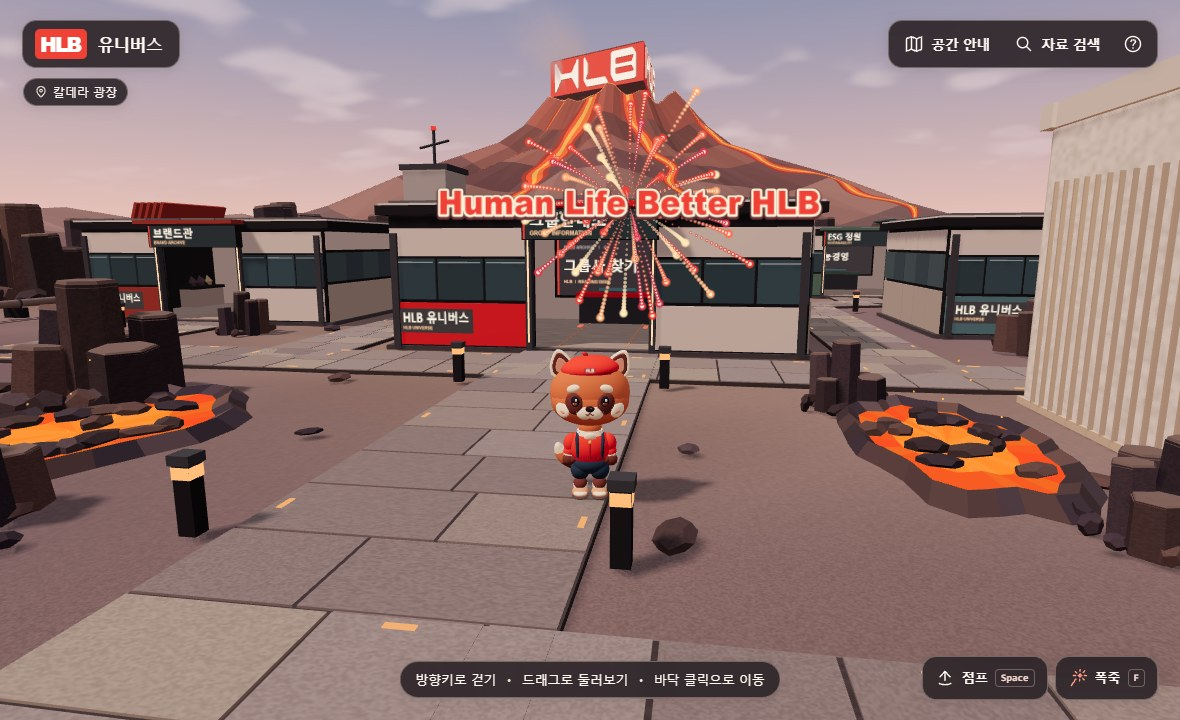
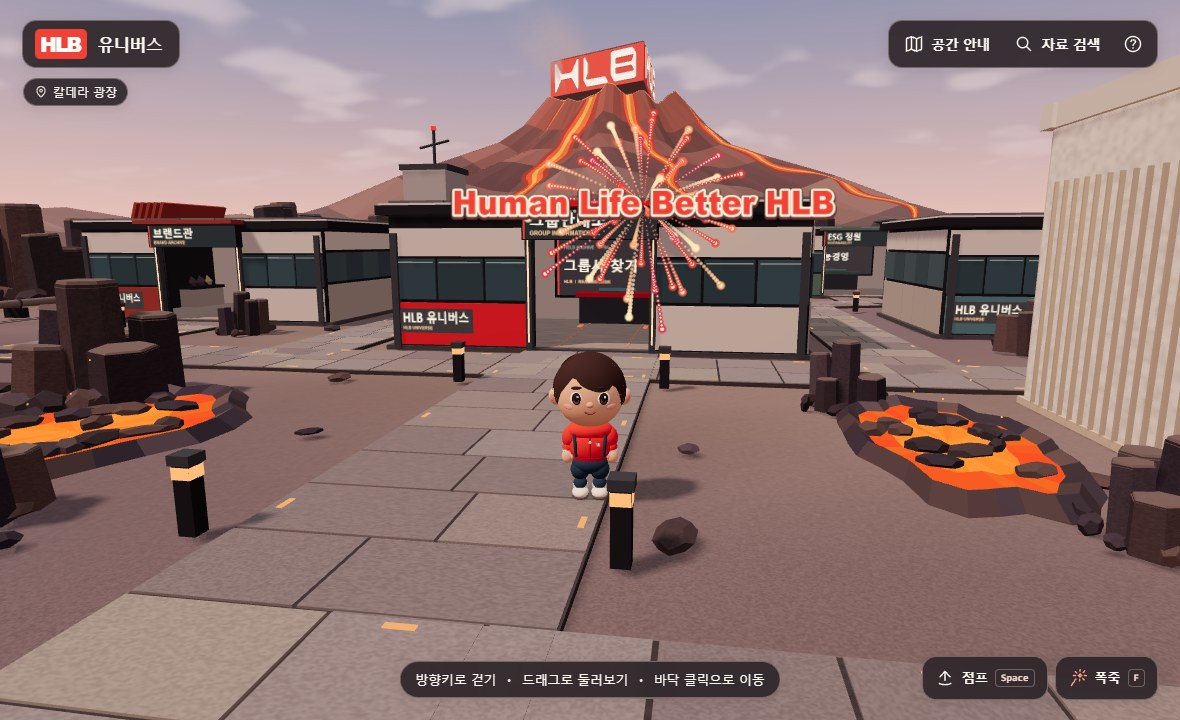
Replace the red panda with a neckless two-head human visitor

Changed region(s): [[0.3661, 0.1222, 0.7322, 0.4583], [0.4576, 0.4889, 0.5492, 0.7028], [0.5797, 0.1222, 0.6102, 0.1528]]

diff --git a/src/player3d.js b/src/player3d.js
@@ -7,7 +7,7 @@
   const distance = (a, b) => Math.hypot(a.x - b.x, a.z - b.z);
 
   // Bake each rigid body part into a single vertex-coloured mesh. The articulated
-  // joints remain independent while fur markings and jacket details share draws.
+  // joints remain independent while facial features and clothing share draws.
   function createVisitor(T, scene) {
     const material = new T.MeshStandardMaterial({ vertexColors: true, roughness: 0.83 });
     const root = new T.Group();
@@ -58,88 +58,113 @@
       parent.add(mesh);
     }
 
-    // A red panda ranger. The soles, chin and ear tips sit near 0, 0.81 and 1.61 m.
-    const hipHeight = .354, headHeightAboveHips = .805;
+    const hipHeight = .354, headHeightAboveHips = .82;
     const hips = joint(root,0,hipHeight,0);
     const chest = joint(hips,0,0,0);
-    const red = 0xef4136, piping = 0xb53439, ivory = 0xffefce;
-    const fur = 0xd8794d, amber = 0xe98a57, cocoa = 0x79463d, ink = 0x392d37;
-    const navy = 0x34485a, sole = 0x594b52;
+    const red = 0xef4136, piping = 0xb53439, ivory = 0xfff1d7;
+    const skin = 0xf5bc99, rose = 0xe69884, hair = 0x49332f, ink = 0x392c32;
+    const navy = 0x34485a, sole = 0x544b53;
     part(chest,(oval,band,seam) => {
       oval(navy,0,.026,.005,.194,.115,.146);
-      oval(red,0,.211,0,.231,.210,.168);
+      oval(red,0,.228,0,.240,.226,.169);
+      // The shoulders extend under the chin. Both move with the same chest joint.
+      oval(red,0,.395,0,.248,.122,.161);
       band(piping,0,.104,0,.210,.207,.033,.74);
-      oval(fur,0,.428,0,.126,.114,.114);
-      band(ivory,0,.378,-.008,.137,.153,.054,.83);
-      seam(piping,[[0,.115,-.155],[0,.215,-.169],[0,.293,-.151]],.009);
+      seam(piping,[[0,.115,-.148],[0,.224,-.171],[0,.344,-.152]],.009);
+      oval(ivory,0,.300,-.166,.015,.021,.008);
       for (const s of [-1,1]) {
-        seam(navy,[[s*.126,.131,-.125],[s*.130,.233,-.140],[s*.136,.329,-.098],
-          [s*.127,.371,.006],[s*.135,.313,.111]],.019);
+        seam(navy,[[s*.146,.132,-.121],[s*.154,.243,-.137],[s*.161,.344,-.113],
+          [s*.159,.427,-.057],[s*.162,.460,.035],[s*.150,.348,.117]],.018);
       }
-      // Cream triangular neckerchief and its little brass knot.
-      oval(ivory,0,.336,-.111,.071,.065,.031,-.47);
-      oval(0xefb35b,0,.296,-.147,.020,.024,.018);
-      // The layered red satchel is visible in the default, rear-facing camera.
-      oval(piping,0,.199,.140,.150,.157,.080);
-      oval(red,0,.193,.170,.145,.149,.089);
-      oval(ivory,0,.230,.223,.128,.080,.049);
-      for (const s of [-1,1]) oval(0xe8ad63,s*.078,.214,.264,.010,.012,.006);
+      oval(piping,0,.235,.144,.167,.161,.096);
+      oval(red,0,.227,.173,.161,.148,.100);
+      seam(0xf47760,[[-.136,.242,.223],[-.093,.271,.255],[0,.278,.268],
+        [.093,.271,.255],[.136,.242,.223]],.006);
     });
+
     const head = joint(chest,0,headHeightAboveHips,-.009);
     head.name = "visitor-head";
-    const eyes = joint(head,0,-.024,0);
+    const eyes = joint(head,0,-.022,0);
     part(head,(oval,band,seam,add) => {
-      oval(fur,0,.005,.008,.424,.359,.323);
-      // Broad lower cheeks give the face its soft, pear-shaped silhouette.
-      oval(fur,0,-.084,-.023,.413,.261,.306);
-      function ear(color,x,y,z,scale,tilt) {
-        const shape = new T.Shape();
-        shape.moveTo(-.105,-.043);
-        shape.quadraticCurveTo(-.128,.026,-.058,.147);
-        shape.quadraticCurveTo(-.020,.210,.028,.161);
-        shape.quadraticCurveTo(.123,.067,.118,-.034);
-        shape.quadraticCurveTo(.084,-.101,0,-.105);
-        shape.quadraticCurveTo(-.076,-.105,-.105,-.043);
-        const geometry = new T.ExtrudeGeometry(shape,{depth:.044,bevelEnabled:true,bevelThickness:.020,bevelSize:.014,bevelSegments:3,curveSegments:8});
-        add(geometry,color,x,y,z,scale,scale,scale,0,0,tilt);
-      }
+      oval(skin,0,0,0,.373,.388,.303);
       for (const s of [-1,1]) {
-        ear(ivory,s*.294,.266,-.008,1,-s*.33);
-        ear(fur,s*.294,.274,.028,.83,-s*.33);
-        ear(cocoa,s*.294,.278,-.027,.78,-s*.33);
-        ear(0xe6a389,s*.294,.279,-.042,.52,-s*.33);
-        // Dark eye markings, buttery brows and the two sweeping cheek patches.
-        oval(cocoa,s*.162,-.055,-.272,.101,.118,.055,0,-s*.43,-s*.23);
-        oval(ivory,s*.171,.095,-.264,.077,.044,.037,0,-s*.42,-s*.29);
-        oval(ivory,s*.283,-.132,-.219,.100,.080,.037,0,-s*.77,s*.38);
-        oval(0xefaa8d,s*.284,-.144,-.251,.042,.021,.014,0,-s*.75,s*.20);
+        oval(skin,s*.362,-.053,.006,.076,.094,.069,0,0,-s*.13);
+        oval(rose,s*.395,-.055,-.042,.029,.043,.016,0,-s*.39,-s*.09);
+        oval(0xf2a695,s*.225,-.112,-.229,.059,.028,.010,0,-s*.60,s*.09);
+        oval(hair,s*.138,.091,-.278,.061,.017,.012,0,-s*.38,-s*.1);
       }
-      for (const s of [-1,1]) oval(ivory,s*.055,-.142,-.290,.091,.079,.055,0,-s*.12);
-      oval(ink,0,-.098,-.344,.046,.032,.021);
-      oval(0x976b64,-.012,-.089,-.362,.014,.007,.005);
-      seam(cocoa,[[0,-.120,-.346],[0,-.143,-.346]],.006);
-      seam(cocoa,[[-.042,-.152,-.347],[-.027,-.159,-.348],[0,-.143,-.346],
-        [.026,-.159,-.348],[.042,-.152,-.347]],.006);
-      // A small cherry-red beret sits between the ears; its brim clears the brows.
-      const crown = new T.SphereGeometry(1,32,16,0,Math.PI*2,0,Math.PI*.53);
-      band(piping,0,.248,.001,.303,.299,.036,.862);
-      add(crown,red,0,.261,.002,.313,.137,.269,0,0,-.055);
-      oval(piping,.045,.399,.009,.023,.029,.022,0,0,-.27);
-      oval(red,.061,.418,.011,.025,.014,.018,0,0,-.16);
+      oval(0xf1ad8f,0,-.081,-.298,.040,.032,.039);
+      seam(0x9a5455,[[-.056,-.159,-.276],[-.027,-.176,-.275],
+        [0,-.181,-.274],[.030,-.174,-.275],[.054,-.157,-.276]],.008);
+
+      // A swept fringe follows the forehead at the front and the nape at the back.
+      // Trimming each meridian separately leaves the round human ears exposed.
+      function hairline(a) {
+        const bump = (center, width) => Math.exp(-(((a-center)/width)**2));
+        return 1.80 - .50*Math.cos(a) + .17*bump(-.22,.38) - .25*bump(.49,.18)
+          - .13*bump(-.70,.13) + .36*bump(-1.14,.21) + .30*bump(1.15,.20);
+      }
+      function hairPoint(a, angle, lift = 0) {
+        const wave = .008*Math.cos(7*a + angle*2.1)*Math.sin(angle);
+        const ring = Math.sin(angle);
+        return [.386*Math.sin(a)*ring*(1+wave+lift),
+          .015+(.403 + lift*.27)*Math.cos(angle),
+          .011-.322*Math.cos(a)*ring*(1+wave+lift)];
+      }
+      const cap = new T.SphereGeometry(1,48,22,0,Math.PI*2,0,Math.PI/2);
+      const p = cap.attributes.position;
+      for (let i=0; i<p.count; i++) {
+        const a = Math.atan2(p.getX(i),-p.getZ(i));
+        const latitude = Math.acos(clamp(p.getY(i),0,1))/(Math.PI/2);
+        // Turn the last ring into the face to close the visible hairline in profile.
+        const angle = Math.min(1, latitude*22/21) * hairline(a);
+        p.setXYZ(i,...hairPoint(a,angle,latitude > .999 ? -.12 : 0));
+      }
+      cap.computeVertexNormals();
+      add(cap,hair,0,0,0,1,1,1);
+      // Soft, tapered raised locks give the haircut a part from every view.
+      function lock(from, to, width, color) {
+        const verts=[], indices=[];
+        for (let j=0; j<=20; j++) {
+          const t=j/20, ease=t*t*(3-2*t), arc=from+(to-from)*ease;
+          const angle=.30+(hairline(to)-.35)*t;
+          const taper=Math.sin(Math.PI*t)**.72;
+          for (let k=0; k<9; k++) {
+            const u=(k-4)/4;
+            const lift=-.030+.081*(1-u*u)*taper;
+            verts.push(...hairPoint(arc+u*width*taper,angle,lift));
+          }
+          if (j>0) for (let k=0; k<8; k++) {
+            const n=j*9+k;
+            indices.push(n-9,n-8,n,n-8,n+1,n);
+          }
+        }
+        const geometry=new T.BufferGeometry();
+        geometry.setAttribute("position",new T.Float32BufferAttribute(verts,3));
+        geometry.setIndex(indices);
+        geometry.computeVertexNormals();
+        add(geometry,color,0,0,0,1,1,1);
+      }
+      lock(.57,-.56,.27,0x583b33);
+      lock(.28,-1.06,.20,0x503731);
+      lock(1.10,1.33,.24,0x533832);
+      lock(1.75,2.40,.20,0x513731);
+      lock(-2.45,-2.95,.25,0x563a32);
     });
     part(eyes,oval => {
       for (const s of [-1,1]) {
-        oval(ink,s*.151,0,-.321,.048,.057,.026,0,-s*.35);
-        oval(0x975f49,s*.153,-.020,-.339,.029,.021,.009,0,-s*.34);
-        oval(0xfffcf1,s*.151-.011,.018,-.345,.015,.016,.008);
-        oval(ivory,s*.151+.013,-.019,-.347,.006,.006,.004);
+        oval(0xfff6e7,s*.143,0,-.275,.070,.072,.022,0,-s*.39);
+        oval(ink,s*.139,.004,-.292,.049,.063,.021,0,-s*.38);
+        oval(0x89573f,s*.139,-.017,-.308,.031,.031,.008,0,-s*.38);
+        oval(ink,s*.139,.007,-.310,.026,.040,.009,0,-s*.38);
+        oval(0xfffbef,s*.139-.013,.027,-.317,.013,.014,.006);
       }
     });
 
     const labelCanvas = document.createElement("canvas");
     labelCanvas.width = 256; labelCanvas.height = 112;
     const labelContext = labelCanvas.getContext("2d");
-    labelContext.fillStyle = "#a73035";
+    labelContext.fillStyle = "#b93431";
     labelContext.fillRect(0,0,256,112);
     labelContext.font = "bold 96px Arial, sans-serif";
     labelContext.textAlign = "center";
@@ -149,71 +174,35 @@
     const labelMap = new T.CanvasTexture(labelCanvas);
     labelMap.colorSpace = T.SRGBColorSpace;
     const labelMaterial = new T.MeshBasicMaterial({map:labelMap,toneMapped:false});
-    const capLabel = new T.Mesh(new T.PlaneGeometry(.112,.049),labelMaterial);
-    capLabel.rotation.y = Math.PI;
-    capLabel.rotation.x = .34;
-    capLabel.position.set(0,.284,-.266);
-    head.add(capLabel);
-    const packLabel = new T.Mesh(new T.PlaneGeometry(.123,.054),labelMaterial);
-    packLabel.position.set(0,.233,.274);
+    const chestLabel = new T.Mesh(new T.PlaneGeometry(.115,.050),labelMaterial);
+    chestLabel.rotation.set(.17,Math.PI+.22,0);
+    chestLabel.position.set(-.076,.277,-.165);
+    chest.add(chestLabel);
+    const packLabel = new T.Mesh(new T.PlaneGeometry(.126,.054),labelMaterial);
+    packLabel.position.set(0,.212,.274);
     chest.add(packLabel);
-
-    // Sweep a tapered tube along the tail so its stripes follow each bend.
-    const tail = joint(hips,0,.040,.112);
-    const tailCurve = new T.CatmullRomCurve3([
-      new T.Vector3(0,0,0), new T.Vector3(.037,-.075,.124),
-      new T.Vector3(.172,-.092,.211), new T.Vector3(.294,-.027,.204),
-      new T.Vector3(.350,.077,.165), new T.Vector3(.354,.136,.136)
-    ]);
-    const tailRings = 36, tailSides = 16;
-    const tube = new T.TubeGeometry(tailCurve,tailRings,1,tailSides,false);
-    const tubeVertices = tube.attributes.position;
-    const tailPoint = new T.Vector3();
-    for (let ring=0; ring<=tailRings; ring++) {
-      const t = ring/tailRings;
-      const center = tailCurve.getPointAt(t);
-      const width = .002 + .096*Math.pow(Math.sin(Math.PI*t),.52);
-      for (let side=0; side<=tailSides; side++) {
-        const i=ring*(tailSides+1)+side;
-        tailPoint.fromBufferAttribute(tubeVertices,i).sub(center).multiplyScalar(width).add(center);
-        tubeVertices.setXYZ(i,tailPoint.x,tailPoint.y,tailPoint.z);
-      }
-    }
-    tube.computeVertexNormals();
-    const stripes = tube.toNonIndexed();
-    tube.dispose();
-    const tailColors = [], stripePaint = [fur,cocoa,amber,cocoa,amber,ivory].map(color=>new T.Color(color));
-    for (let i=0; i<stripes.attributes.position.count; i++) {
-      const ring = Math.floor(i/(tailSides*6));
-      const color = stripePaint[Math.floor(ring*stripePaint.length/tailRings)];
-      tailColors.push(color.r,color.g,color.b);
-    }
-    stripes.setAttribute("color",new T.Float32BufferAttribute(tailColors,3));
-    const plume = new T.Mesh(stripes,material);
-    plume.castShadow = true;
-    tail.add(plume);
 
     const arms = [], legs = [];
     for (const s of [-1,1]) {
-      const arm = joint(chest,s*.196,.295,0);
+      const arm = joint(chest,s*.202,.366,0);
       arm.rotation.z = s*.14;
-      const elbow = joint(arm,0,-.111,0);
-      part(arm,oval => oval(red,0,-.043,0,.082,.107,.085));
+      const elbow = joint(arm,0,-.137,0);
+      part(arm,oval => oval(red,0,-.047,0,.091,.124,.093));
       part(elbow,(oval,band) => {
         oval(red,0,-.025,0,.070,.076,.074);
         band(ivory,0,-.064,0,.067,.064,.027);
-        oval(cocoa,0,-.110,-.010,.070,.070,.066);
-        oval(cocoa,-s*.044,-.104,-.049,.034,.040,.030);
+        oval(skin,0,-.114,-.010,.067,.082,.054);
+        oval(skin,-s*.047,-.106,-.040,.028,.043,.027);
       });
       const thigh = joint(hips,s*.104,-.005,0);
       const shin = joint(thigh,0,-.131,0);
       part(thigh,oval => oval(navy,0,-.038,0,.107,.113,.109));
       part(shin,(oval,band) => {
-        oval(cocoa,0,-.067,0,.077,.086,.084);
+        oval(navy,0,-.067,0,.077,.086,.084);
         band(ivory,0,-.085,0,.078,.078,.036);
-        oval(0xe3a079,0,-.151,-.035,.091,.064,.124);
+        oval(ivory,0,-.151,-.035,.091,.064,.124);
         oval(sole,0,-.191,-.038,.093,.027,.125);
-        oval(ivory,0,-.144,-.105,.074,.033,.062);
+        oval(red,0,-.131,-.102,.060,.011,.033);
       });
       arms.push({arm,elbow}); legs.push({thigh,shin});
     }
@@ -243,8 +232,6 @@
       head.position.y = headHeightAboveHips + (reducedMotion ? 0 : Math.sin(elapsed * 2.0) * 0.004 * (1 - weight));
       const blinkTime = (elapsed + .7) % 4.1;
       eyes.scale.y = reducedMotion ? 1 : clamp(Math.abs(blinkTime-.095)/.095,.075,1);
-      tail.rotation.y = reducedMotion ? 0 : Math.sin(phase) * stride * .21 + Math.sin(elapsed * 2) * .07;
-      tail.rotation.x = -.22*inAir;
       shadow.scale.setScalar(1-.30*inAir);
       shadowMaterial.opacity = 1-.46*inAir;
       for (let i = 0; i < 2; i++) {

diff --git a/index.html b/index.html
@@ -18,7 +18,7 @@
   <script defer src="src/reader.js"></script>
   <script defer src="src/cologne-gallery.js"></script>
   <script defer src="src/world3d.js"></script>
-  <script defer src="src/player3d.js"></script>
+  <script defer src="src/player3d.js?v=ac3bc457"></script>
   <script defer src="src/fireworks.js"></script>
   <script defer src="src/app.js"></script>
 </head>
